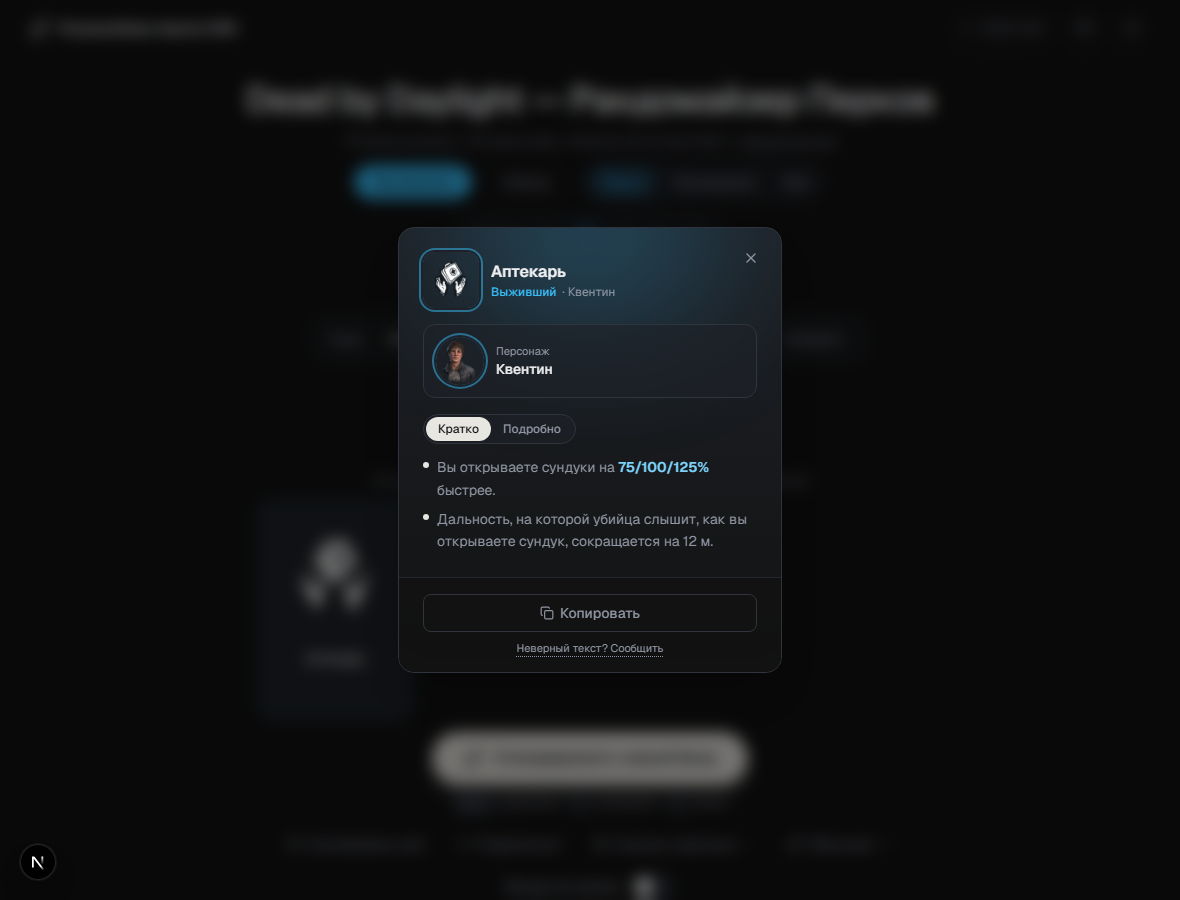
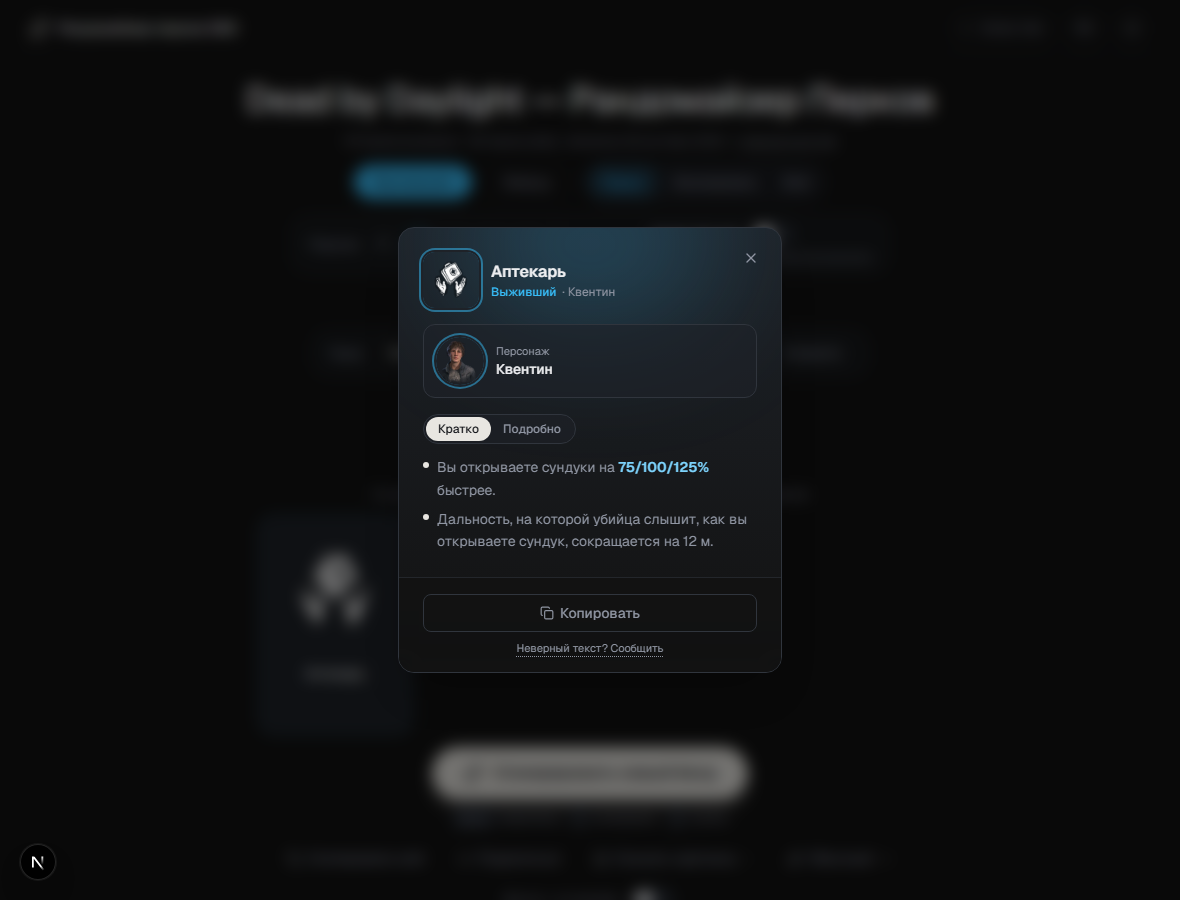
Put Battle Royale with the controls it belongs to
It was a bare switch at the very bottom of the page, below the keyboard
legend, with nothing around it — while the Theme filter, which narrows a
single roll, sat in prime space beside the perk count. Battle Royale is a
whole game mode: it keeps a session-scoped set of everything spent and
every roll draws from what is left.

It now sits in the control panel next to the perk count, says what it does
without being turned on, and shows how much pool is left while a run is
going.

The count is passed in already role-filtered. The eliminated set spans both
roles on purpose, so a raw count would disagree with the role-filtered pool
size beside it — exactly what the comment in lib/use-battle-royale.ts warns
about. The spec now covers that: spend as survivor, switch to killer, and
the number must be the full killer pool.

A segment of the panel rather than a row of its own, and that was not the
first attempt. As a block it put the first perk card at y=416 on a laptop
and 664 on a phone, against 345 and 589 — 71px spent on a mode most people
never turn on, undoing most of what the setup disclosure bought.
viewports.spec caught it. In the panel it costs 17px.

No behaviour and no storage key changed, so a run already in a session
survives.

Changed region(s): [[0.3661, 0.8089, 0.6407, 0.9022], [0.2441, 0.5911, 0.3051, 0.6844], [0.5186, 0.9644, 0.5797, 0.9956]]

diff --git a/components/dbd/battle-royale-control.tsx b/components/dbd/battle-royale-control.tsx
@@ -1,0 +1,75 @@
+"use client";
+
+import { ToggleSwitch } from "./toggle-switch";
+import { useT } from "@/lib/i18n";
+
+/**
+ * Battle Royale, next to the controls that decide what gets rolled.
+ *
+ * It used to be a bare switch at the very bottom of the page, below the
+ * keyboard legend, with nothing around it — while the Theme filter, which
+ * only narrows one roll, sat in prime space beside the perk count. Battle
+ * Royale is a whole game mode: it keeps a session-scoped set of everything
+ * spent, across both roles, and every roll draws from what is left.
+ *
+ * So it sits with the mode controls, it says what it does without being
+ * opened, and while a run is going it shows how much pool is left.
+ *
+ * The count is the one thing here that can be wrong in a quiet way. The
+ * eliminated set spans BOTH roles on purpose — switching side mid-run must
+ * not hand back perks you already spent — so a raw count would disagree
+ * with the role-filtered pool size shown beside it. `remaining` is passed
+ * in already role-filtered for exactly that reason; see the note in
+ * lib/use-battle-royale.ts.
+ */
+export function BattleRoyaleControl({
+  active,
+  onToggle,
+  remaining,
+}: {
+  active: boolean;
+  onToggle: () => void;
+  /** Perks left for the CURRENT role. Already filtered by the caller. */
+  remaining: number;
+}) {
+  const t = useT();
+
+  return (
+    /* A segment of the control panel, not a row of its own.
+    
+       It was a block first, and e2e/viewports.spec.ts caught what that cost:
+       the first perk card went from y=345 to y=416 on a laptop and 589 to 664
+       on a phone — 71px of the page spent on a mode most visitors never turn
+       on, undoing most of what moving the setup controls behind a disclosure
+       bought. Inside the panel it costs the panel's own height and nothing
+       else. */
+    <div className="flex shrink-0 flex-col items-center justify-center gap-0.5 px-4 py-1.5 sm:py-2">
+      <div className="flex items-center gap-2">
+        <ToggleSwitch
+          checked={active}
+          onChange={onToggle}
+          label={t({ ru: "Battle Royale", en: "Battle Royale" })}
+          activeClassName="bg-accent"
+          tooltip={t({
+            ru: "Копирование билда навсегда убирает эти перки из пула — играйте, пока не закончатся все перки роли.",
+            en: "Copying a build permanently removes those perks from the pool — play until every perk for this role is gone.",
+          })}
+        />
+        {active && (
+          <span className="text-meta font-semibold tabular-nums text-foreground">
+            {t({ ru: "Осталось:", en: "Left:" })} {remaining}
+          </span>
+        )}
+      </div>
+      {/* What it does, without having to turn it on to find out. Hint size
+          and muted: read once, then it stops competing with the control
+          above it. */}
+      <span className="text-hint text-muted">
+        {t({
+          ru: "Использованные перки выбывают, пока пул не кончится",
+          en: "Used perks are retired until the pool runs out",
+        })}
+      </span>
+    </div>
+  );
+}

diff --git a/e2e/battle-royale-state.spec.ts b/e2e/battle-royale-state.spec.ts
@@ -74,3 +74,63 @@ test("Начать заново refills the pool without leaving the mode", asyn
   await page.getByRole("button", { name: "Статистика пула" }).click();
   await expect.poll(() => attrition(page).then(([used]) => used)).toBe(0);
 });
+
+/* The count beside the switch.
+ *
+ * The eliminated set spans BOTH roles on purpose — switching side mid-run
+ * must not hand back perks you already spent — so the number shown has to
+ * be filtered to the current role or it disagrees with the pool size it
+ * sits next to. That is the failure this covers: it would read as "the
+ * pool is wrong" rather than as "the label is wrong", and only on the
+ * second role.
+ */
+
+/** "Осталось: 172" → 172. */
+async function remaining(page: Page): Promise<number> {
+  const text = await page.getByText(/^Осталось: \d+$/).first().innerText();
+  return Number(text.match(/\d+/)?.[0]);
+}
+
+test("the count appears only while a run is on", async ({ page }) => {
+  await page.goto("/?role=survivor");
+  await expect(page.locator("[data-perk-card]").first()).toBeVisible();
+
+  // Off: the switch and its explanation, but no number to misread.
+  await expect(page.getByText(/^Осталось: \d+$/)).toHaveCount(0);
+  await expect(
+    page.getByText("Использованные перки выбывают, пока пул не кончится"),
+  ).toBeVisible();
+
+  await page.getByRole("switch", { name: "Battle Royale" }).click();
+  await expect.poll(() => remaining(page)).toBeGreaterThan(0);
+});
+
+test("the count falls as the pool is spent", async ({ page }) => {
+  await page.goto("/?role=survivor");
+  await expect(page.locator("[data-perk-card]").first()).toBeVisible();
+  await page.getByRole("switch", { name: "Battle Royale" }).click();
+
+  const before = await remaining(page);
+  await page.getByRole("button", { name: "Сгенерировать новый билд" }).click();
+  // Four perks retired by one roll.
+  await expect.poll(() => remaining(page)).toBe(before - 4);
+});
+
+test("the count is this role's, not both roles added together", async ({ page }) => {
+  /* The whole reason the hook's comment exists. Spend perks as survivor,
+   * switch to killer, and the number must describe the killer pool only —
+   * a raw count of the eliminated set would still carry the survivor
+   * spend and read several perks short of the truth. */
+  await page.goto("/?role=survivor");
+  await expect(page.locator("[data-perk-card]").first()).toBeVisible();
+  await page.getByRole("switch", { name: "Battle Royale" }).click();
+  await page.getByRole("button", { name: "Сгенерировать новый билд" }).click();
+  await expect.poll(() => remaining(page)).toBeGreaterThan(0);
+
+  await page.getByRole("button", { name: "Убийца" }).click();
+  await expect(page.locator("[data-perk-card]").first()).toBeVisible();
+
+  const killerPool = perks.filter((p) => p.role === "killer").length;
+  // Nothing has been spent as killer yet, so the full killer pool is left.
+  await expect.poll(() => remaining(page)).toBe(killerPool);
+});

diff --git a/components/dbd/randomizer-board.tsx b/components/dbd/randomizer-board.tsx
@@ -90,6 +90,7 @@ import { HistoryModal } from "./history-modal";
 import { PresetsModal } from "./presets-modal";
 import { VaultModal } from "./vault-modal";
 import { ToggleSwitch } from "./toggle-switch";
+import { BattleRoyaleControl } from "./battle-royale-control";
 import {
   ShareCard,
   type ShareCardPiece,
@@ -1552,6 +1553,17 @@ export function RandomizerBoard() {
           </div>
         )}
 
+        {/* A whole game mode, so it belongs with the controls that decide
+            what gets rolled rather than below the keyboard legend, which is
+            where it used to be. `availableCount` is already role-filtered —
+            see lib/use-battle-royale.ts for why a raw count would disagree
+            with the pool size sitting beside it. */}
+        <BattleRoyaleControl
+          active={battleRoyale}
+          onToggle={toggleBattleRoyale}
+          remaining={availableCount}
+        />
+
         {mode !== "perks" && (
           <div className="flex shrink-0 flex-wrap items-center justify-center gap-x-2 gap-y-1.5 px-4 py-1.5 text-sm sm:py-2">
             <span className="text-muted">
@@ -2107,17 +2119,6 @@ export function RandomizerBoard() {
           )}
         </div>
       )}
-
-      <ToggleSwitch
-        checked={battleRoyale}
-        onChange={toggleBattleRoyale}
-        label={t({ ru: "Battle Royale", en: "Battle Royale" })}
-        activeClassName="bg-accent"
-        tooltip={t({
-          ru: "Копирование билда навсегда убирает эти перки из пула — играйте, пока не закончатся все перки роли.",
-          en: "Copying a build permanently removes those perks from the pool — play until every perk for this role is gone.",
-        })}
-      />
 
       <button
         type="button"
